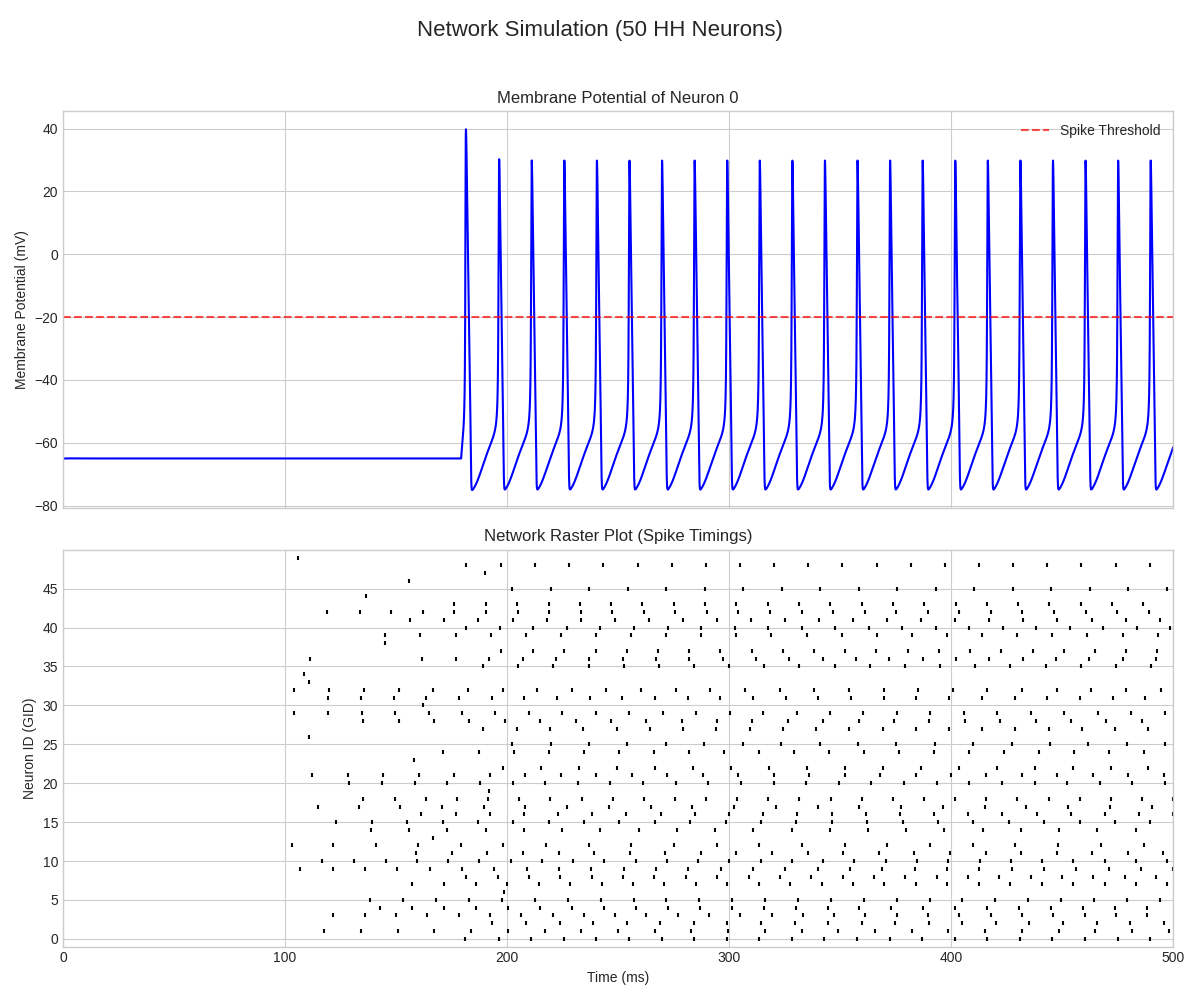
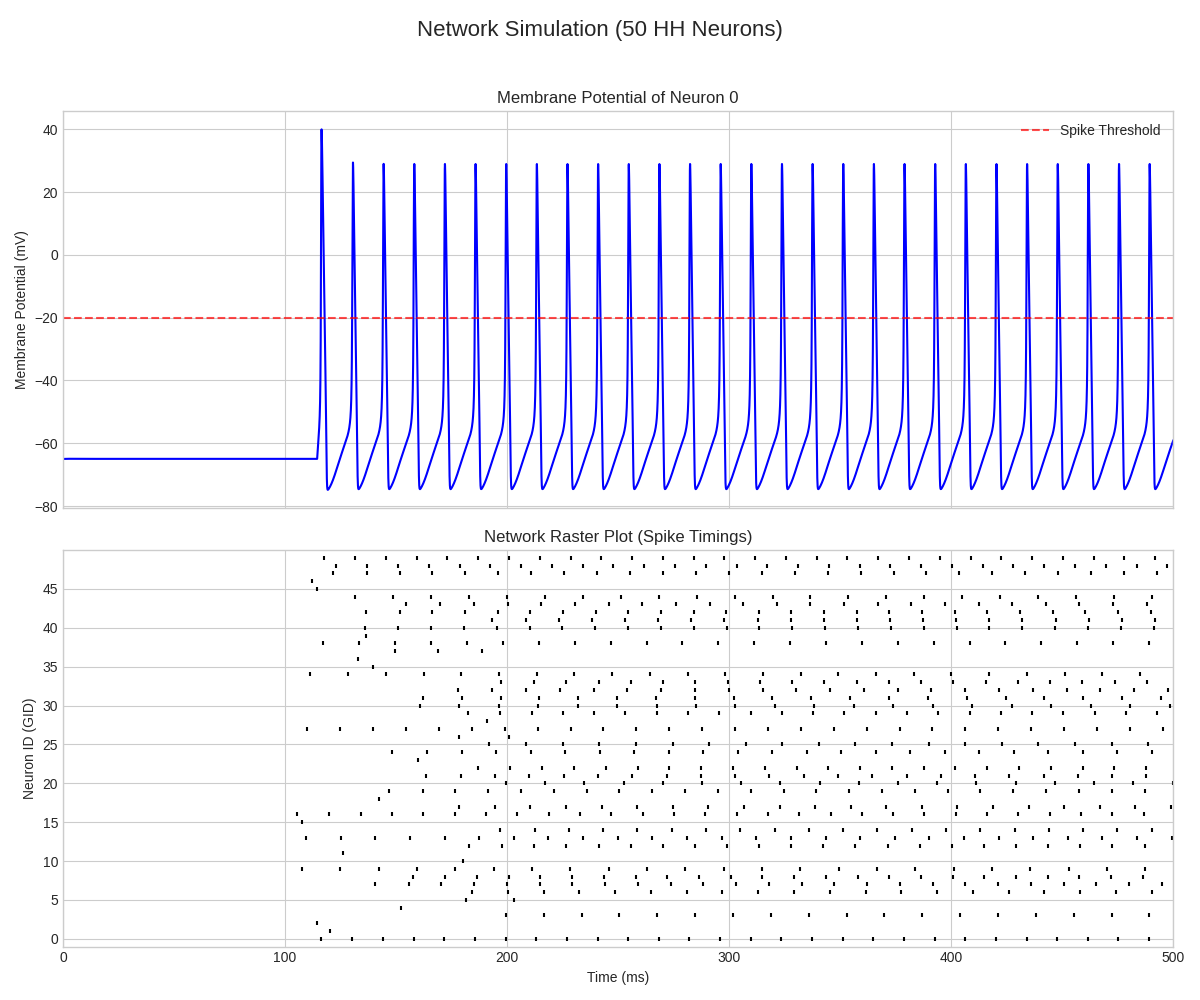
Testing to add dates to new files

diff --git a/neuron_50.py b/neuron_50.py
@@ -2,6 +2,7 @@ from neuron import n
 from neuron.units import ms, mV, µm
 import matplotlib.pyplot as plt
 import random
+import datetime
 n.load_file("stdrun.hoc")
 class HHNeuron: 
     def __init__(self, gid):
@@ -49,7 +50,7 @@ syn_list = []
 for pre in neurons:
     for post in neurons:
         if pre.gid != post.gid:
-            if random.random() < 0.1:  # 10% connection probability
+            if random.random() < 1:  # 100% connection probability
                 syn = n.ExpSyn(post.soma(0.5))
                 syn.tau = 2 * ms
                 nc = n.NetCon(pre.soma(0.5)._ref_v, syn, sec=pre.soma)
@@ -102,9 +103,12 @@ axes[1].set_title("Network Raster Plot (Spike Timings)")
 axes[1].set_yticks(range(0, numNeurons, 5)) # Show every 5th GID
 axes[1].set_ylim(-1, numNeurons)
 
+timestamp = datetime.datetime.now().strftime("%Y-%m-%d-%H:%M:%S")
+filename = f"network_simulation_results_{timestamp}.png"
+
 plt.tight_layout(rect=[0, 0, 1, 0.96]) 
 
-plt.savefig("network_simulation_results.png")
+plt.savefig(filename)
 plt.show()
 
 print("\nResults saved to 'network_simulation_results.png'")
